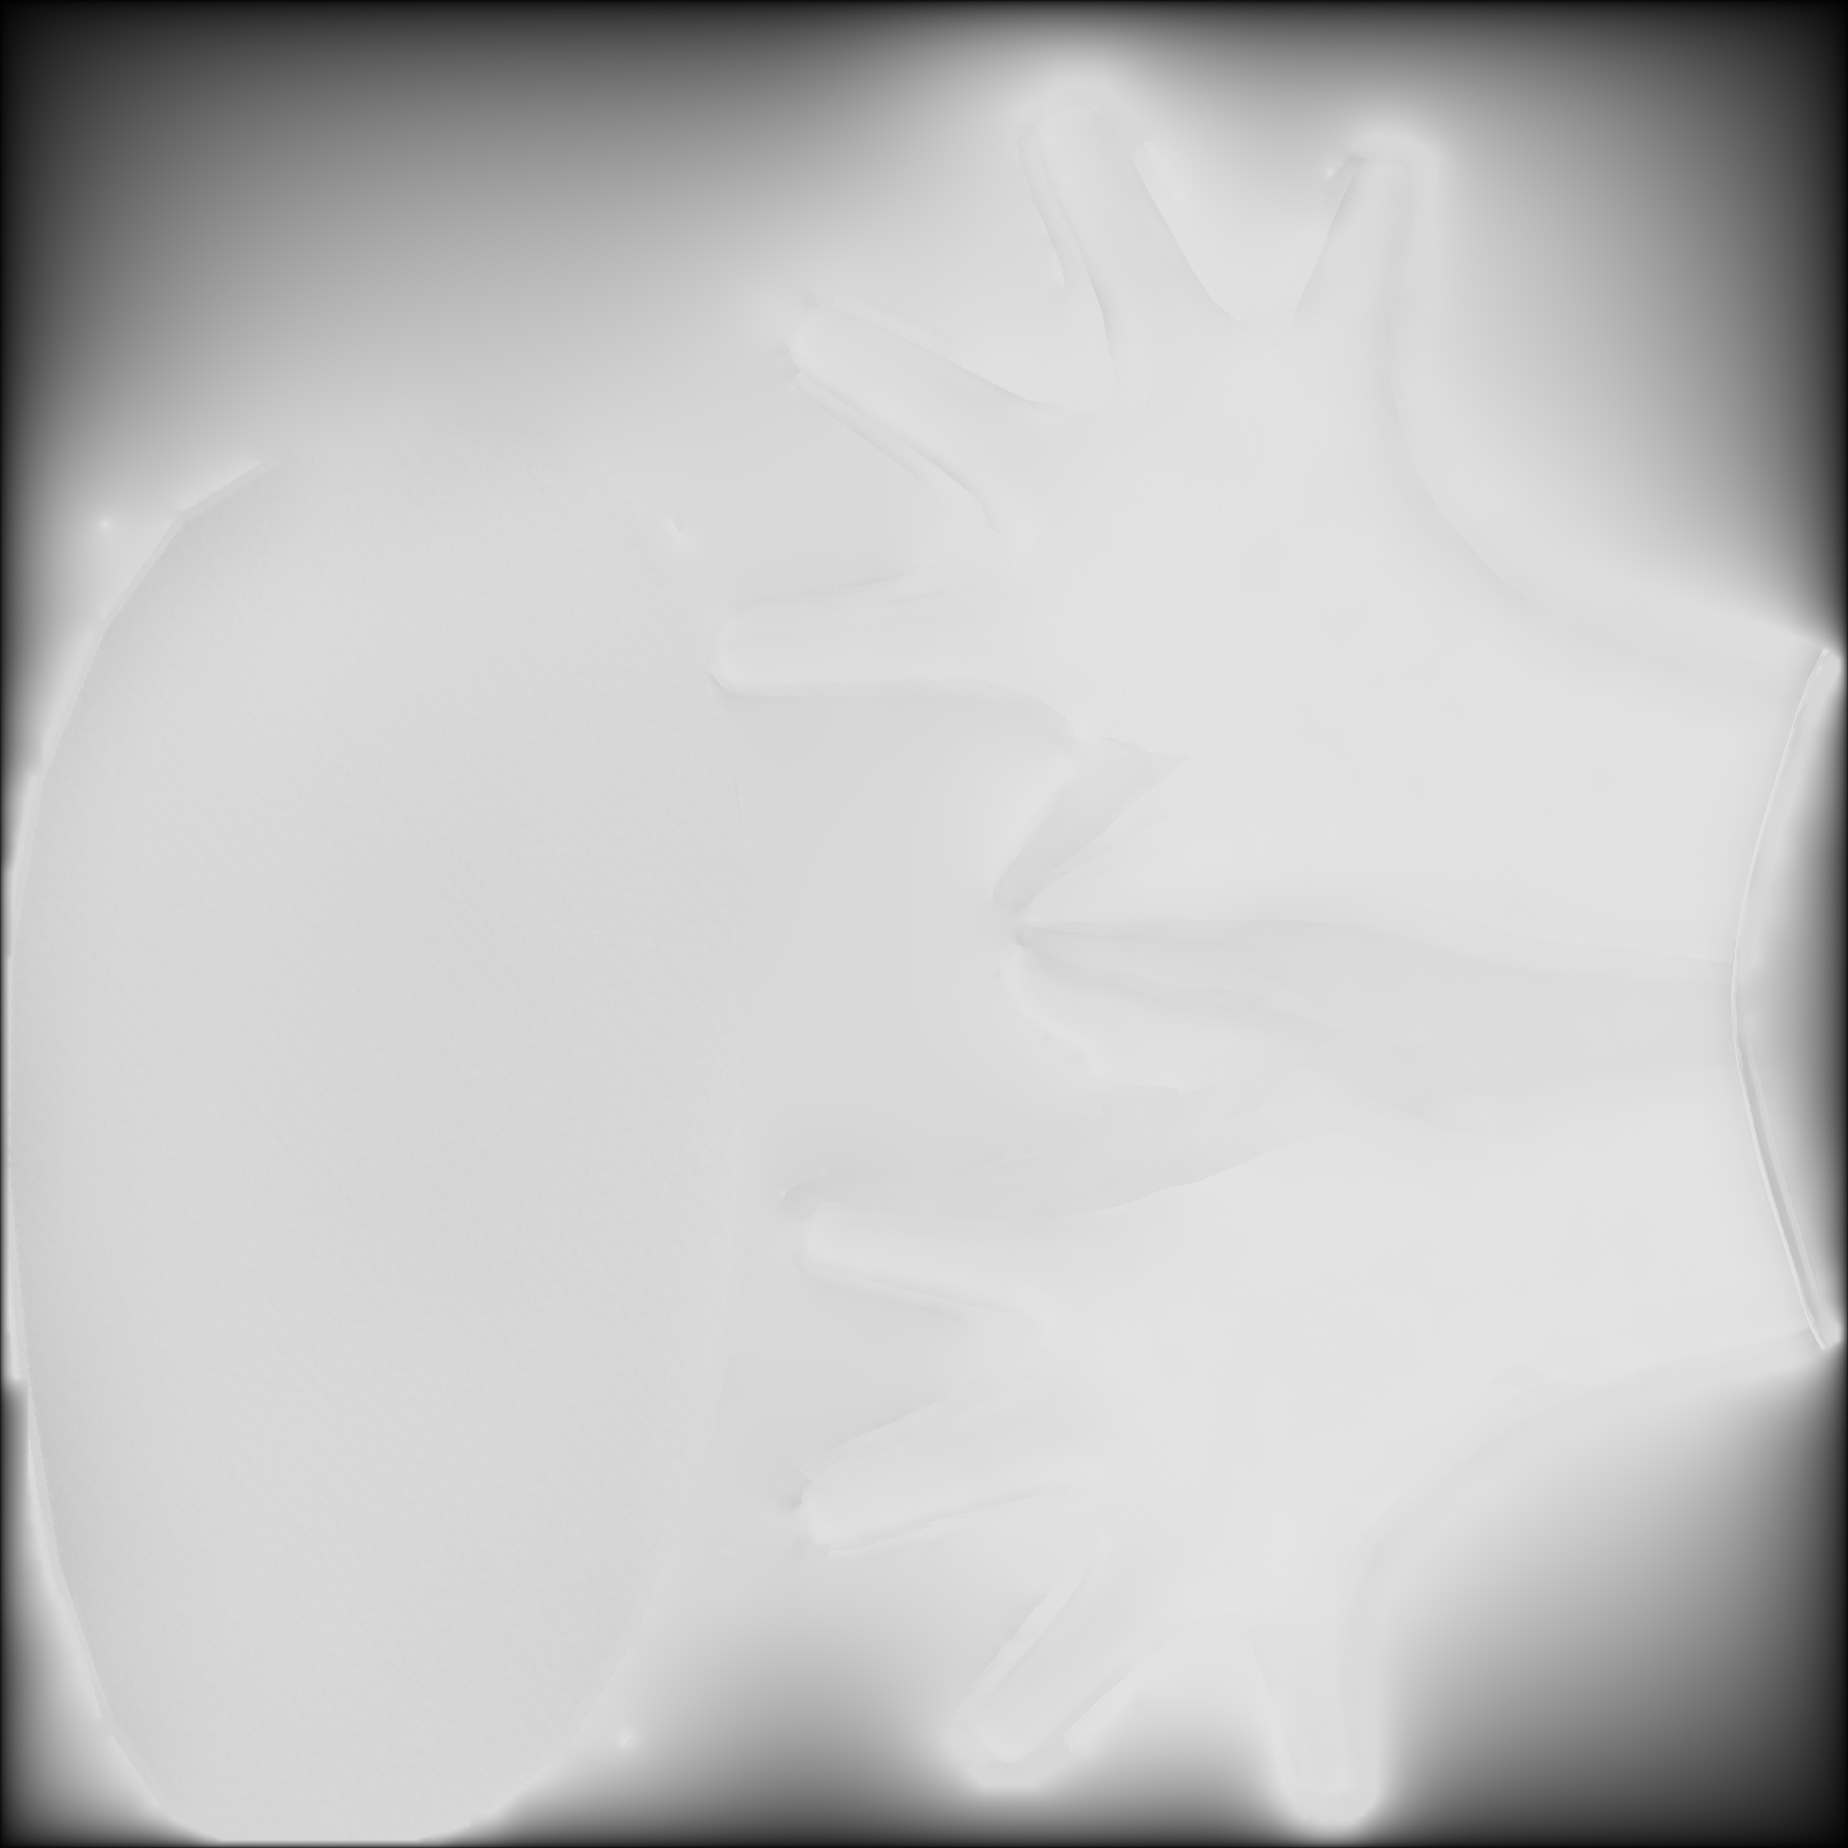
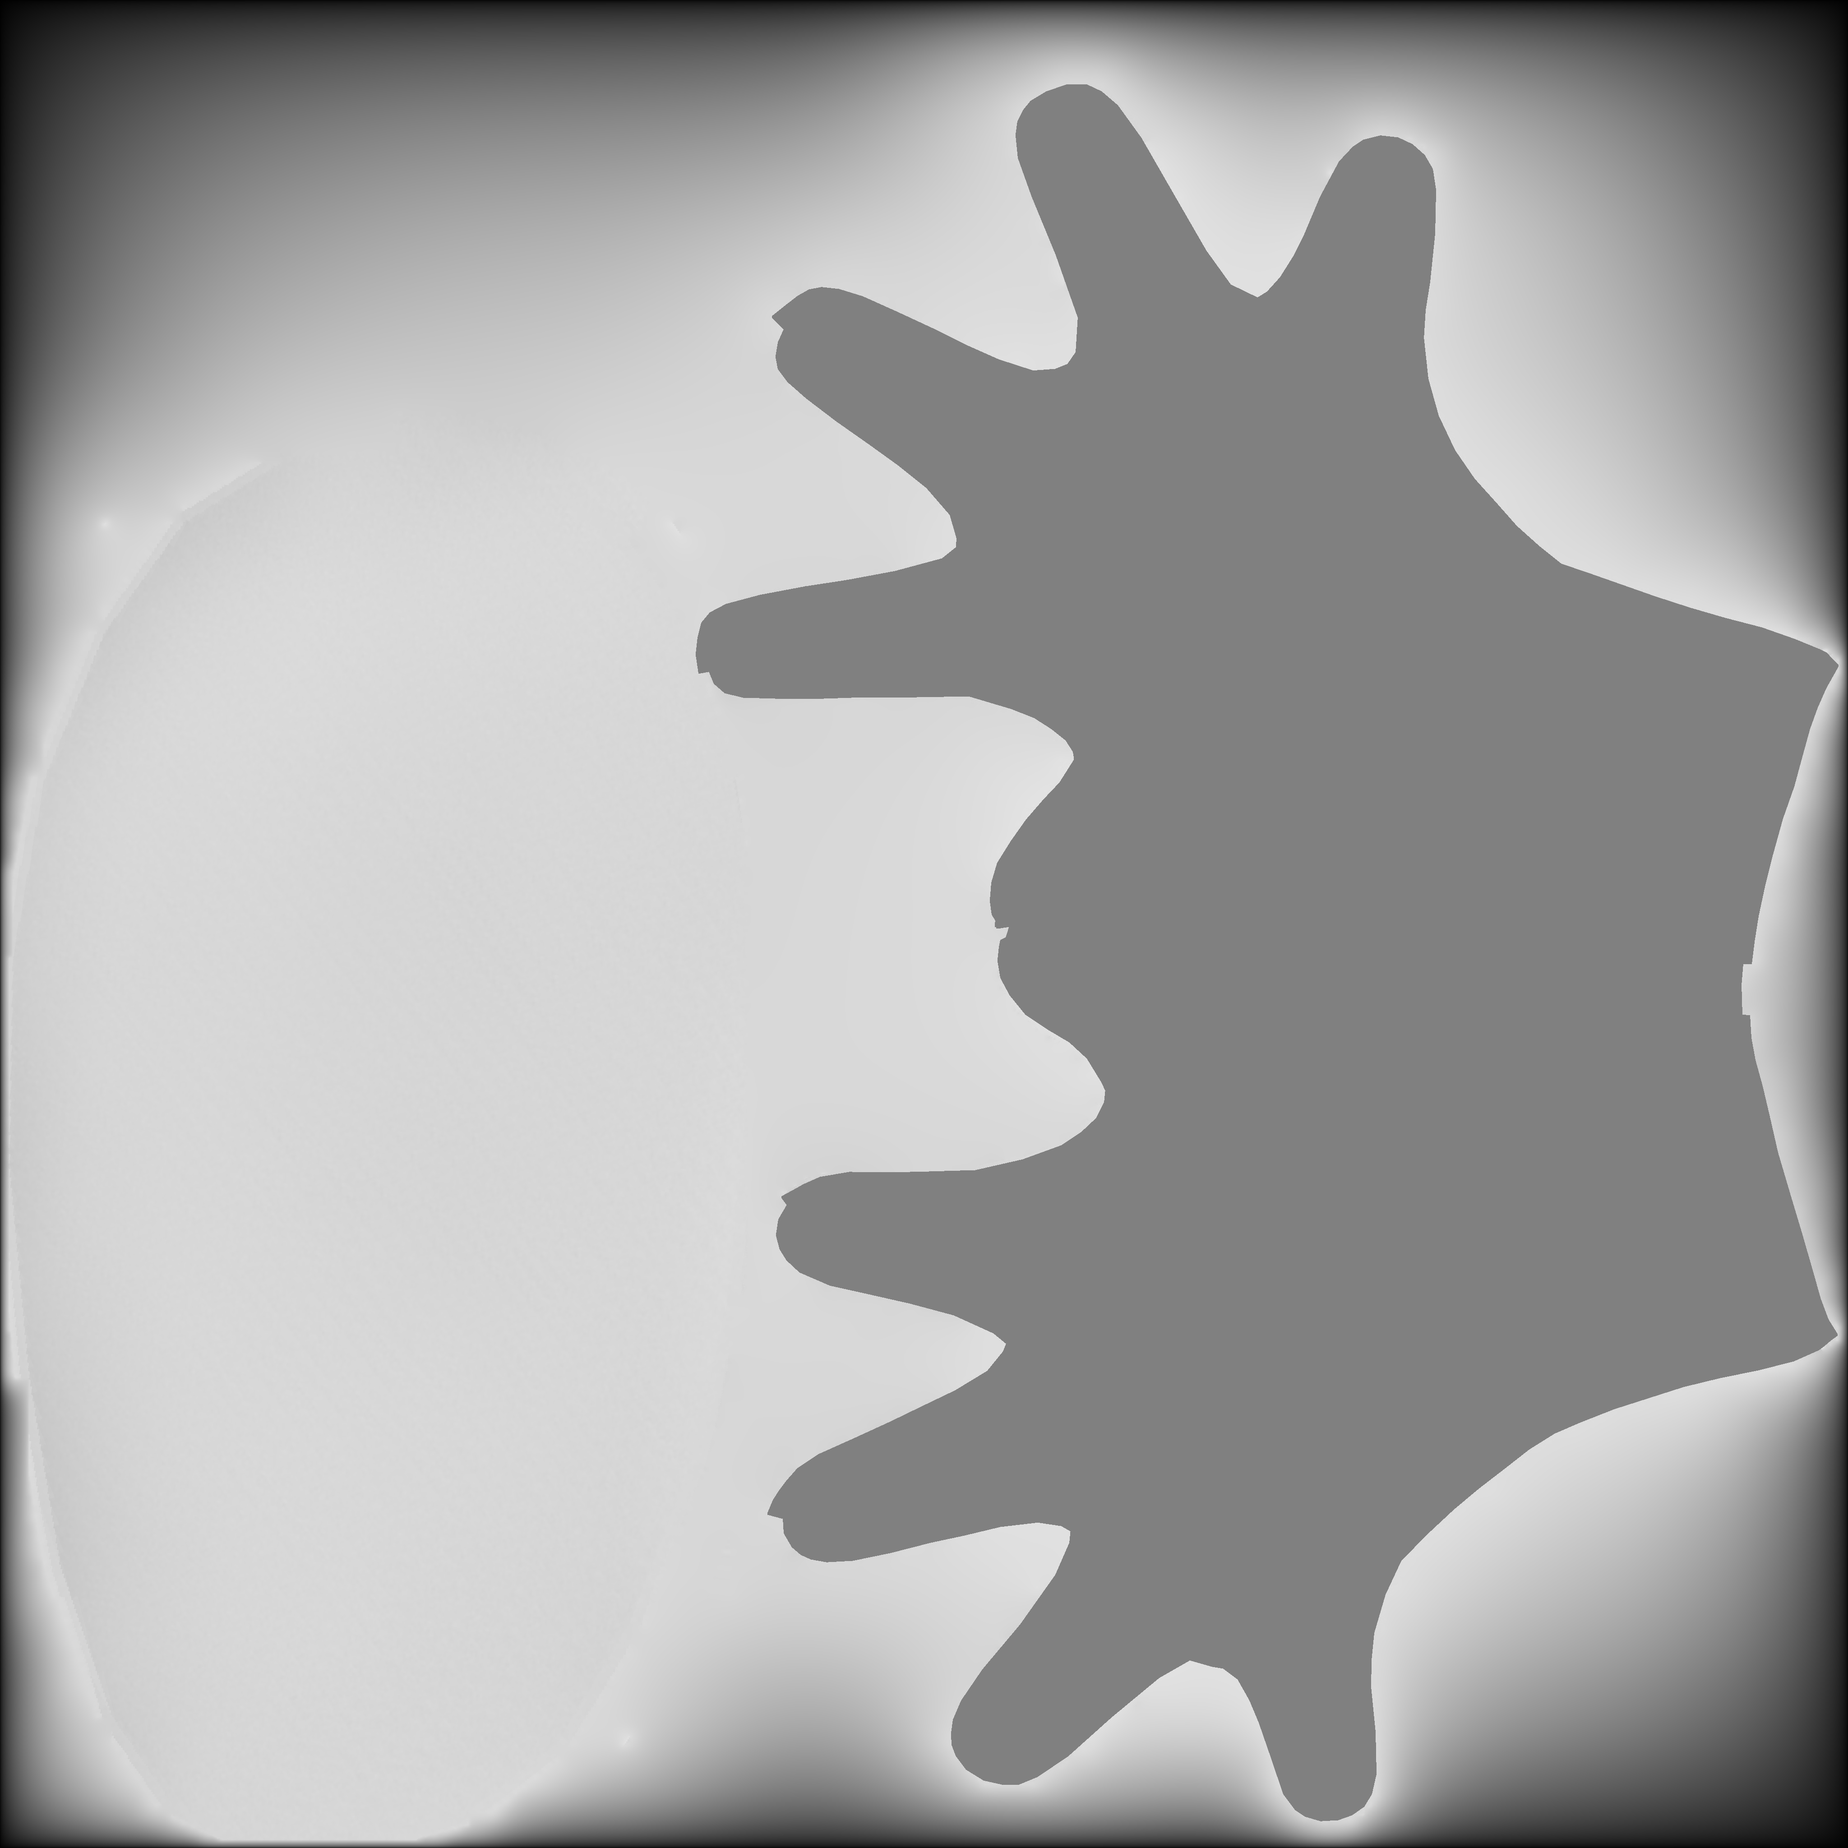
Remove glove colors with original UV masks and add verification renders

diff --git a/website/avatar-models/v2/tools/gloves_off.py b/website/avatar-models/v2/tools/gloves_off.py
@@ -1,0 +1,67 @@
+"""Masked repaint; pixels outside the saved two-pixel bleed masks stay exact."""
+from pathlib import Path
+import hashlib,json,shutil
+import numpy as np
+from PIL import Image,ImageFilter,ImageDraw
+from scipy import ndimage as ndi
+from fbx_read import read_fbx,child,val
+import subprocess,io
+ROOT=Path(__file__).resolve().parents[1];T=ROOT/'tex';B=ROOT/'baseline'
+BASE_COMMIT='0c1d45711779c77f439c2a85b1f88b298ce15c73'
+def mask_for(rgb):
+ # Restrict the luminance test to the actual original glove UV island.
+ # A global threshold misses its dark seams and also selects bright background.
+ roots=read_fbx(ROOT/'source.fbx');obj=next(n for n in roots if n['name']=='Objects');g=child(obj,'Geometry');uvn=child(g,'LayerElementUV')
+ uv=val(uvn,'UV').reshape(-1,2)[val(uvn,'UVIndex')].reshape(-1,3,2)
+ h,w=np.asarray(rgb).shape[:2];canvas=Image.new('L',(w,h));draw=ImageDraw.Draw(canvas)
+ for tri in uv:
+  if np.all(tri[:,0]>=.5) and np.all(tri[:,1]>=.5):
+   pts=[((u-.5)*2*(w-1),(1-v)*2*(h-1)) for u,v in tri]
+   draw.polygon(pts,fill=255)
+ coverage=np.asarray(canvas)>0
+ labels,n=ndi.label(coverage);sizes=np.bincount(labels.ravel());sizes[0]=0
+ # Select the component sampled at the palm, not the independent oval island.
+ label=labels[int(h*.35),int(w*.80)]
+ if label==0:label=sizes.argmax()
+ region=ndi.binary_fill_holes(labels==label)
+ lum=np.asarray(rgb)[...,:3]@np.array([.2126,.7152,.0722])
+ m=ndi.binary_fill_holes(region & (lum>0))
+ return ndi.binary_dilation(m,structure=ndi.generate_binary_structure(2,2),iterations=2)
+def original_image(name):
+ data=subprocess.check_output(['git','show',BASE_COMMIT+':website/avatar-models/v2/tex/'+name],cwd=ROOT)
+ return Image.open(io.BytesIO(data))
+def digest(p):return hashlib.sha256(p.read_bytes()).hexdigest()
+def main(repaint):
+ if not (T/'atlas-original.png').exists():shutil.copyfile(T/'atlas.png',T/'atlas-original.png')
+ raw=Image.open(repaint).convert('RGB');ar=np.asarray(raw).astype(float)
+ skin=(ar[:,:,0]>ar[:,:,1]*1.25)&(ar[:,:,1]>ar[:,:,2]*1.1)&(ar[:,:,0]>110)
+ labels,n=ndi.label(skin);sizes=np.bincount(labels.ravel());sizes[0]=0;skin=ndi.binary_fill_holes(labels==sizes.argmax())
+ # Extend repaint colors into its dark edge pixels before applying the ORIGINAL mask.
+ nearest=ndi.distance_transform_edt(~skin,return_distances=False,return_indices=True)
+ extended=ar[nearest[0],nearest[1]].astype('uint8')
+ paint=Image.fromarray(extended).filter(ImageFilter.GaussianBlur(.65))
+ hand=original_image('HAND.png').convert('RGB');hm=mask_for(hand)
+ atlas=Image.open(T/'atlas-original.png').convert('RGB');aa=np.asarray(atlas).copy();q=atlas.width//2
+ tile=atlas.crop((q,0,atlas.width,q));tm=mask_for(tile);am=np.zeros(aa.shape[:2],bool);am[:q,q:]=tm
+ stats={}
+ for name,original,mask,value in [('atlas.png',atlas,am,None),('HAND.png',hand,hm,None),('HAND_metallic.png',original_image('HAND_metallic.png'),hm,0),('HAND_roughness.png',original_image('HAND_roughness.png'),hm,128)]:
+  old=np.asarray(original).copy();out=old.copy()
+  if name=='atlas.png':
+   replacement=np.asarray(paint.resize((q,q),Image.Resampling.LANCZOS));out[:q,q:][tm]=replacement[tm]
+  elif value is None:out[mask]=np.asarray(paint.resize(original.size,Image.Resampling.LANCZOS))[mask]
+  else:
+   if old.ndim==3 and old.shape[2]==4:out[mask,:3]=value
+   else:out[mask]=value
+  assert np.array_equal(out[~mask],old[~mask]),name
+  Image.fromarray(out).save(T/name)
+  check=np.asarray(Image.open(T/name));assert np.array_equal(check[~mask],old[~mask])
+  stats[name]={'size':list(original.size),'masked_pixels':int(mask.sum()),'changed_pixels_outside_mask':int(np.count_nonzero(np.any(check[~mask]!=old[~mask],axis=-1))) if old.ndim==3 else int(np.count_nonzero(check[~mask]!=old[~mask])),'sha256':digest(T/name)}
+ Image.fromarray((am*255).astype('uint8')).save(B/'gloves-off-atlas-mask.png')
+ Image.fromarray((hm*255).astype('uint8')).save(B/'gloves-off-hand-mask.png')
+ stats['mask']={'source':'original color-map luminance > 0 within original FBX glove UV island, palm-seeded connected component; enclosed holes filled','bleed':'2 pixels of 8-connected dilation at each target resolution','atlas_original_sha256':digest(T/'atlas-original.png'),'normal_map':'unchanged; requested verification uses only the atlas color map'}
+ (B/'gloves-off-verification.json').write_text(json.dumps(stats,indent=2)+'\n')
+ # Review image, not used as material.
+ overlay=aa.copy();overlay[am]=(overlay[am]*.3+np.array([255,50,20])*.7).astype('uint8');Image.fromarray(overlay).save(B/'gloves-off-mask-review.png')
+ print(json.dumps(stats,indent=2))
+if __name__=='__main__':
+ import sys;main(sys.argv[1] if len(sys.argv)>1 else T/'HAND-repaint-source.png')

diff --git a/website/avatar-models/v2/tools/render_gloves_off.py b/website/avatar-models/v2/tools/render_gloves_off.py
@@ -1,0 +1,69 @@
+"""CPU orthographic rasterization of source.fbx; no model or bone modifications.
+Reads FBX mesh vertices and polygon UVs directly. Uses the bind/rest mesh,
+computed vertex normals, a z buffer, bilinear sRGB texture sampling and diffuse light.
+"""
+from pathlib import Path
+import json,hashlib
+import numpy as np
+from PIL import Image
+from fbx_read import read_fbx,child,val
+ROOT=Path(__file__).resolve().parents[1]
+def mesh():
+ roots=read_fbx(ROOT/'source.fbx');obj=next(n for n in roots if n['name']=='Objects');g=child(obj,'Geometry')
+ v=val(g,'Vertices').reshape(-1,3);p=val(g,'PolygonVertexIndex');uvn=child(g,'LayerElementUV')
+ assert val(uvn,'MappingInformationType')=='ByPolygonVertex'
+ uv=val(uvn,'UV').reshape(-1,2)[val(uvn,'UVIndex')]
+ # This source is entirely triangulated; retain its original winding and UV corners.
+ assert len(p)%3==0 and np.all(p.reshape(-1,3)[:,2]<0)
+ ids=np.where(p<0,-p-1,p).reshape(-1,3);tuv=uv.reshape(-1,3,2)
+ n=np.cross(v[ids[:,1]]-v[ids[:,0]],v[ids[:,2]]-v[ids[:,0]])
+ norm=np.zeros_like(v)
+ for i in range(3):np.add.at(norm,ids[:,i],n)
+ norm/=np.maximum(np.linalg.norm(norm,axis=1,keepdims=True),1e-12)
+ return v,ids,tuv,norm
+
+def render(v,ids,tuv,norm,path,center,span,size,view=(0,0,1)):
+ w,h=size;forward=np.array(view,dtype=float);forward/=np.linalg.norm(forward)
+ right=np.cross([0.,1.,0.],forward);right/=np.linalg.norm(right);up=np.cross(forward,right)
+ basis=np.array([right,up,forward]);vv=(v-np.array(center))@basis.T
+ scale=h/span;scr=np.stack([vv[:,0]*scale+w/2,-vv[:,1]*scale+h/2],axis=1)
+ depth=np.full((h,w),-np.inf);img=np.empty((h,w,3),dtype=np.uint8);img[:]=[40,41,46]
+ tex=np.asarray(Image.open(ROOT/'tex/atlas.png').convert('RGB'),dtype=float)/255
+ # Lighting in linear space; textures are color data in sRGB.
+ tex=np.where(tex<=.04045,tex/12.92,((tex+.055)/1.055)**2.4)
+ lights=[(np.array([-.4,.7,1.]),.65),(np.array([.6,.15,.8]),.2)]
+ shade=np.full(len(v),.55)
+ for direction,power in lights:
+  direction/=np.linalg.norm(direction);shade+=power*np.maximum(0,norm@direction)
+ for tri,uv in zip(ids,tuv):
+  a,b,c=scr[tri];lo=np.maximum(np.floor(np.min([a,b,c],0)).astype(int),0);hi=np.minimum(np.ceil(np.max([a,b,c],0)).astype(int),[w-1,h-1])
+  if np.any(hi<lo):continue
+  den=(b[1]-c[1])*(a[0]-c[0])+(c[0]-b[0])*(a[1]-c[1])
+  if abs(den)<1e-10:continue
+  yy,xx=np.mgrid[lo[1]:hi[1]+1,lo[0]:hi[0]+1];px=xx+.5;py=yy+.5
+  wa=((b[1]-c[1])*(px-c[0])+(c[0]-b[0])*(py-c[1]))/den
+  wb=((c[1]-a[1])*(px-c[0])+(a[0]-c[0])*(py-c[1]))/den;wc=1-wa-wb
+  z=wa*vv[tri[0],2]+wb*vv[tri[1],2]+wc*vv[tri[2],2]
+  good=(wa>=-1e-8)&(wb>=-1e-8)&(wc>=-1e-8)&(z>depth[yy,xx])
+  if not good.any():continue
+  y=yy[good];x=xx[good];weights=np.stack([wa[good],wb[good],wc[good]],1);uvs=weights@uv
+  tx=np.clip(uvs[:,0],0,1)*(tex.shape[1]-1);ty=(1-np.clip(uvs[:,1],0,1))*(tex.shape[0]-1)
+  ix=np.floor(tx).astype(int);iy=np.floor(ty).astype(int);jx=np.minimum(ix+1,tex.shape[1]-1);jy=np.minimum(iy+1,tex.shape[0]-1)
+  fx=(tx-ix)[:,None];fy=(ty-iy)[:,None]
+  col=(tex[iy,ix]*(1-fx)+tex[iy,jx]*fx)*(1-fy)+(tex[jy,ix]*(1-fx)+tex[jy,jx]*fx)*fy
+  col*= (weights@shade[tri])[:,None];col=np.where(col<=.0031308,12.92*col,1.055*np.maximum(col,0)**(1/2.4)-.055)
+  img[y,x]=(np.clip(col,0,1)*255+.5).astype('uint8');depth[y,x]=z[good]
+ Image.fromarray(img).save(path)
+ print(path.name,flush=True)
+
+def main():
+ v,ids,uv,n=mesh();B=ROOT/'baseline'
+ render(v,ids,uv,n,B/'gloves-off-front.png',center=[.005,.59,0],span=1.3,size=(1800,1600))
+ # Hand UV faces locate the target on the positive-X side of the source itself.
+ handuv=(uv[:,:,0].mean(1)>.69)&(uv[:,:,1].mean(1)>.50)
+ handids=np.unique(ids[handuv]);hp=v[handids];hp=hp[hp[:,0]>.48]
+ print('hand bounds',hp.min(0),hp.max(0),flush=True)
+ center=(hp.min(0)+hp.max(0))/2
+ render(v,ids,uv,n,B/'gloves-off-hand.png',center=center,span=.19,size=(1500,1200),view=(.05,.2,1))
+ report=json.loads((B/'gloves-off-verification.json').read_text());report['render']={'method':'CPU z-buffer rasterizer, original FBX geometry and per-polygon UVs, computed vertex normals, orthographic cameras, atlas-only color map','triangles':len(ids),'source_fbx_sha256':hashlib.sha256((ROOT/'source.fbx').read_bytes()).hexdigest(),'hand_center':center.tolist(),'outputs':['gloves-off-front.png','gloves-off-hand.png']};(B/'gloves-off-verification.json').write_text(json.dumps(report,indent=2)+'\n')
+if __name__=='__main__':main()

diff --git a/website/avatar-models/v2/tools/fbx_read.py b/website/avatar-models/v2/tools/fbx_read.py
@@ -1,0 +1,45 @@
+"""Read binary FBX arrays for non-mutating texture verification renders."""
+import struct,zlib
+from pathlib import Path
+import numpy as np
+
+def read_fbx(path):
+ b=Path(path).read_bytes(); version=struct.unpack_from('<I',b,23)[0]
+ wide=version>=7500; fmt='<QQQB' if wide else '<IIIB'; hs=25 if wide else 13
+ def node(pos):
+  end,n,plen,nlen=struct.unpack_from(fmt,b,pos)
+  if not end:return None,pos+hs
+  name=b[pos+hs:pos+hs+nlen].decode();q=pos+hs+nlen;props=[]
+  for _ in range(n):
+   t=chr(b[q]);q+=1
+   if t in 'SR':
+    ln=struct.unpack_from('<I',b,q)[0];q+=4;v=b[q:q+ln];q+=ln
+    props.append(v.decode('utf8','replace') if t=='S' else v)
+   elif t in 'YCFDIL':
+    f={'Y':'h','C':'?','F':'f','D':'d','I':'i','L':'q'}[t];props.append(struct.unpack_from('<'+f,b,q)[0]);q+=struct.calcsize(f)
+   elif t in 'fdilbc':
+    count,enc,ln=struct.unpack_from('<III',b,q);q+=12;v=b[q:q+ln];q+=ln
+    if enc:v=zlib.decompress(v)
+    props.append(np.frombuffer(v,dtype={'f':'<f4','d':'<f8','i':'<i4','l':'<i8','b':'u1','c':'u1'}[t]).copy())
+   else:raise ValueError(t)
+  children=[]
+  while q<end-hs:
+   child,q=node(q)
+   if child:children.append(child)
+  return {'name':name,'props':props,'children':children},end
+ roots=[];q=27
+ while q<len(b)-hs and any(b[q:q+hs]):
+  r,q=node(q);roots.append(r)
+ return roots
+
+def children(node,name):return [n for n in node['children'] if n['name']==name]
+def child(node,name):return children(node,name)[0]
+def val(node,name):return child(node,name)['props'][0]
+if __name__=='__main__':
+ import sys
+ roots=read_fbx(sys.argv[1]);obj=next(x for x in roots if x['name']=='Objects')
+ for n in obj['children']:
+  if n['name']=='Geometry':
+   print(n['props']);print([(x['name'],[('array',v.shape) if isinstance(v,np.ndarray) else v for v in x['props']]) for x in n['children']])
+  if n['name']=='Model' and 'Mesh' in n['props']:
+   print('MESH',n['props']);print(child(n,'Properties70'))

diff --git a/website/avatar-models/v2/NOTES.md b/website/avatar-models/v2/NOTES.md
@@ -1,0 +1,31 @@
+# Phase 1 — glove removal
+
+`source.fbx` is Vintos. `source-vintos-repo.fbx` is an older, different character and is ignored. The existing baseline completes Step 1. This change does not complete the avatar rebuild or approve the next phase.
+
+## Delivered verification renders
+
+- `baseline/gloves-off-front.png`: full frontal rest-pose view, including both hands.
+- `baseline/gloves-off-hand.png`: close view of the hand on the positive-X side.
+
+Rendered from the unchanged `source.fbx` vertices and polygon UVs with the new `tex/atlas.png` color map. The reproducible CPU rasterizer computes vertex normals, uses a depth buffer and bilinear texture sampling, and applies diffuse lighting. No Blender, GPU, browser renderer, skeleton edit, unit conversion, or geometry export was used. These verify the texture placement, not client rendering or animation behavior.
+
+## Textures and preservation
+
+`tex/atlas-original.png` is a byte-for-byte copy of the original PNG. The original atlas is RGB, so it has no alpha mask. A luminance threshold alone missed dark glove seams. The final mask limits the original luminance test to the glove UV component from `source.fbx`, fills enclosed holes, then dilates by two pixels at each target resolution. The independent oval island stays excluded. Saved masks are in `baseline/`.
+
+The built-in ImageGen repaint (`tex/HAND-repaint-source.png`) uses HEAD.png as the skin-tone reference. Its generated outline is not used as the mask. Repaint colors are extended across its edge before being composited through the original mask. HAND.png retains 4096×4096 resolution; atlas.png retains 2048×2048. The repaint itself is upsampled, not native 4K detail.
+
+Within the hand mask, metallic is 0 and roughness is 128. Outside each saved mask all decoded pixel bytes are identical to the original files. `HAND_normal.png` remains unchanged: this requested pass and its renders use the color atlas only. A later normal-mapped material should remove the old leather detail.
+
+The FBX file, original UV coordinates, and Mixamo bone names are unchanged. `baseline/gloves-off-verification.json` records pixel checks and file hashes.
+
+## Reproduce
+
+Install the Python dependencies in `tools/requirements.txt`, then run from this folder:
+
+```sh
+python tools/gloves_off.py
+python tools/render_gloves_off.py
+```
+
+The compositing script reads the original hand maps from the pinned pre-edit Git commit (the commit must be available locally); the original atlas is retained as a PNG. All output writes stay inside v2.
